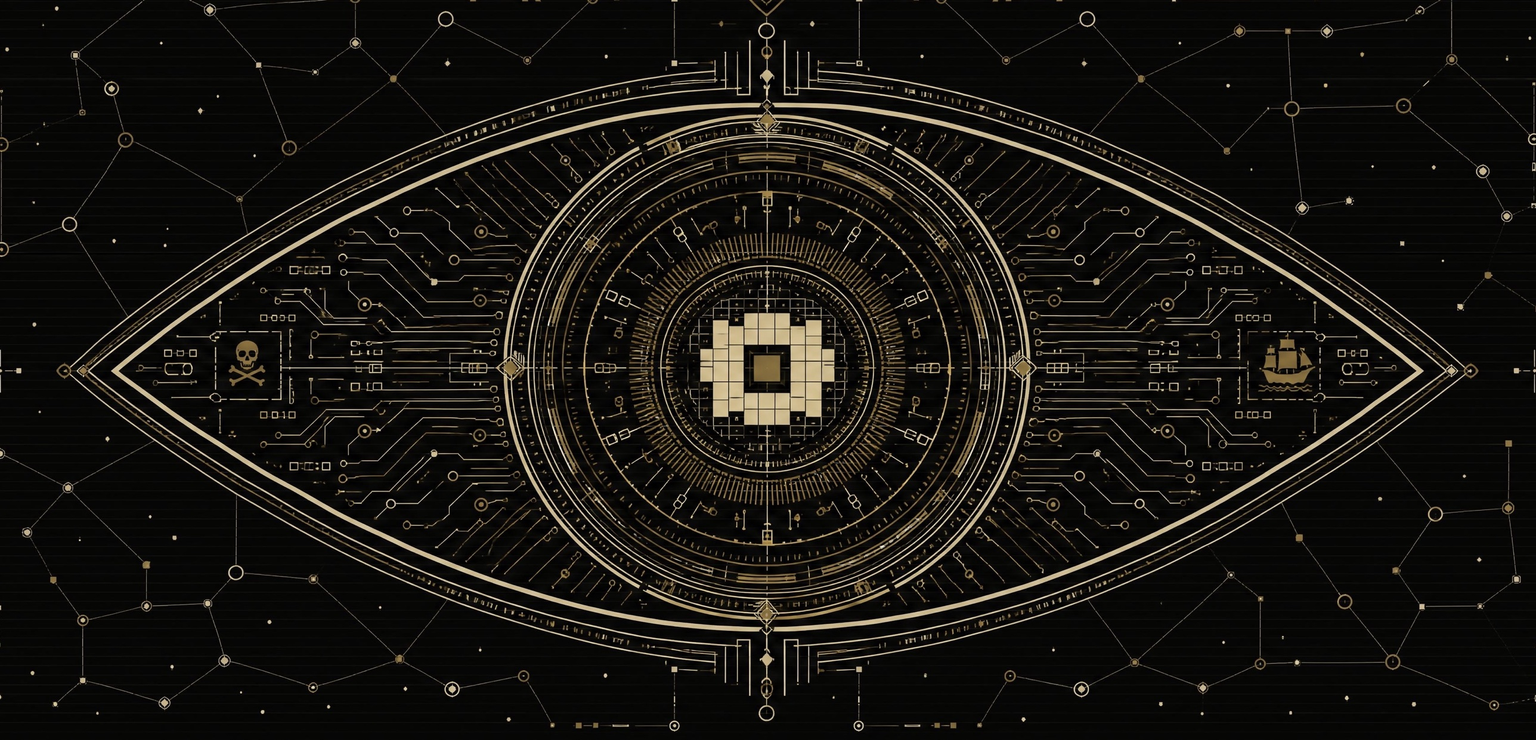
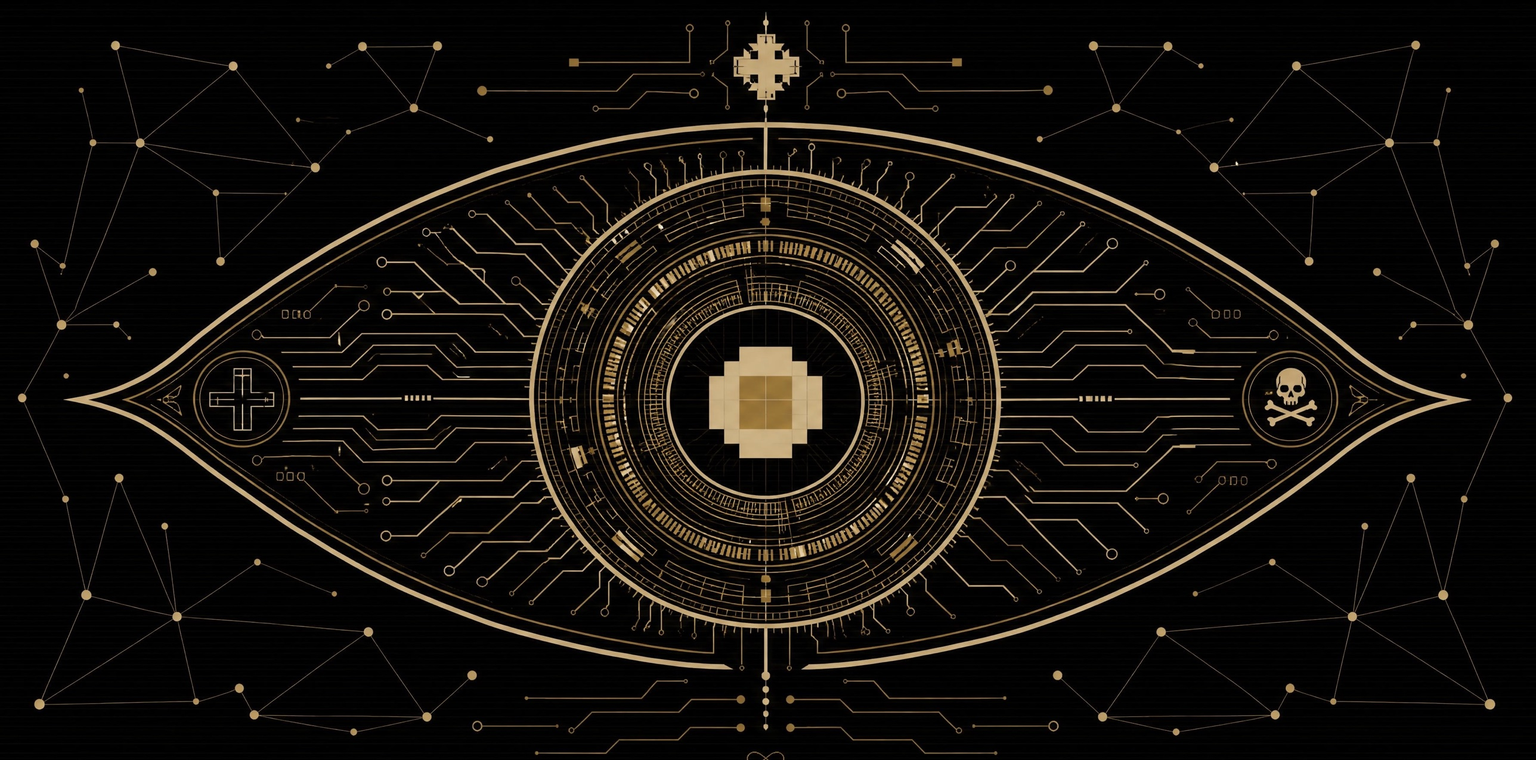
Swap in the new eye-sigil artwork (#205)
Replaces uploads/eye-sigil.jpg with the latest version (cross/skull side
icons instead of skull/ship) and updates the aspect-ratio to match its
slightly different dimensions (2576x1274 vs 2576x1242).

Claude-Session: https://claude.ai/code/session_01RBzUcGdf2uWrTGtcjrovM7

diff --git a/index.html b/index.html
@@ -303,7 +303,7 @@ body{
 .s1-eye{position:absolute;inset:0;z-index:2;pointer-events:none;overflow:hidden;opacity:0}
 .s1-eye.vis{animation:eyeCycle 24s linear 1.2s infinite}
 @keyframes eyeCycle{0%{opacity:0}10%{opacity:1}72.5%{opacity:1}83%{opacity:0}100%{opacity:0}}
-.s1-eye i{position:absolute;top:50%;left:50%;width:min(88vw,1400px);aspect-ratio:2576/1242;transform:translate(-50%,-50%);background:url('uploads/eye-sigil.jpg');background-size:112%;background-repeat:no-repeat;mix-blend-mode:screen;animation:eyeBreathe 11s ease-in-out infinite,eyeLook 9s ease-in-out infinite}
+.s1-eye i{position:absolute;top:50%;left:50%;width:min(88vw,1400px);aspect-ratio:2576/1274;transform:translate(-50%,-50%);background:url('uploads/eye-sigil.jpg');background-size:112%;background-repeat:no-repeat;mix-blend-mode:screen;animation:eyeBreathe 11s ease-in-out infinite,eyeLook 9s ease-in-out infinite}
 .s1-eye i.e-base{opacity:.34;filter:contrast(1.15) saturate(.85);animation:eyeBreathe 11s ease-in-out infinite,eyeLook 9s ease-in-out infinite,eyeSlice 1.8s steps(1,end) infinite,eyeFlicker 5.3s steps(1,end) infinite}
 .s1-eye i.e-r{opacity:0;filter:sepia(1) hue-rotate(-18deg) saturate(1.6) contrast(1.15);animation:eyeBreathe 11s ease-in-out infinite,eyeLook 9s ease-in-out infinite,eyeGlitchR 1.3s steps(1,end) infinite}
 .s1-eye i.e-c{opacity:0;filter:sepia(1) hue-rotate(90deg) saturate(1.4) contrast(1.15);animation:eyeBreathe 11s ease-in-out infinite,eyeLook 9s ease-in-out infinite,eyeGlitchC 1.5s steps(1,end) infinite}
